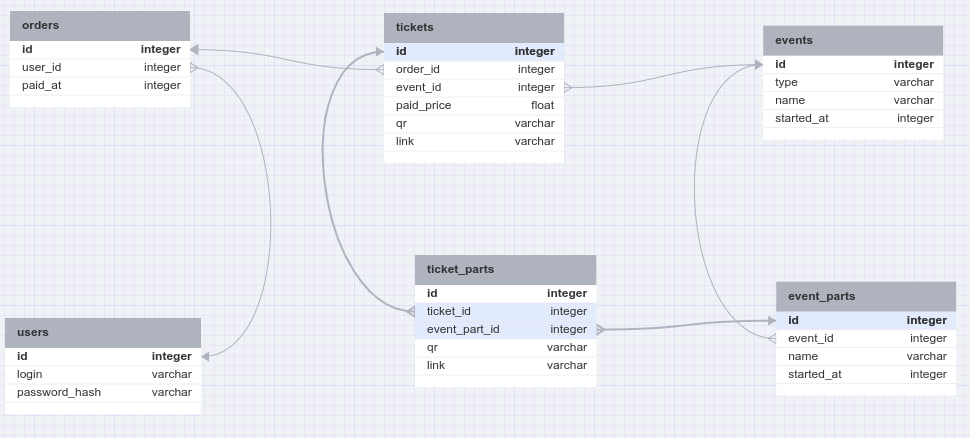
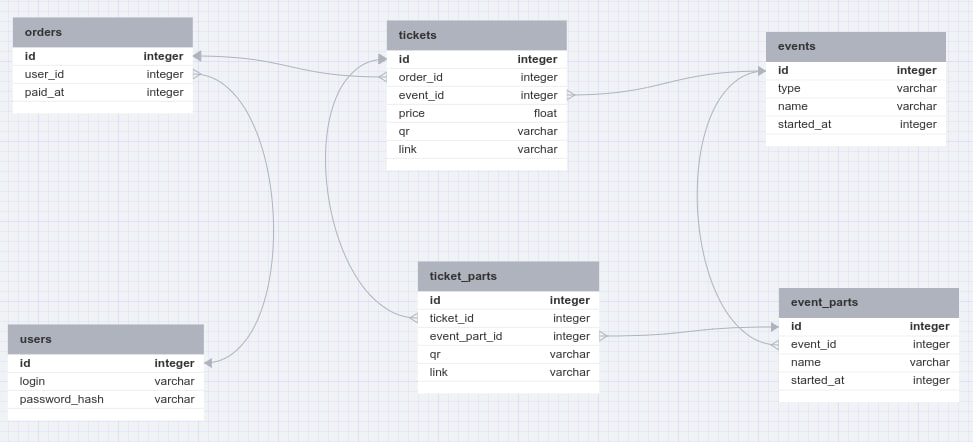
Fix ticket

diff --git a/interfaces/entities/ITicket.php b/interfaces/entities/ITicket.php
@@ -18,7 +18,7 @@ interface ITicket
     public function getOrder(): IOrder;
 
     /**
-     * @return float|null
+     * @return float
      */
-    public function getPaidPrice(): ?float;
+    public function getPrice(): float;
 }
